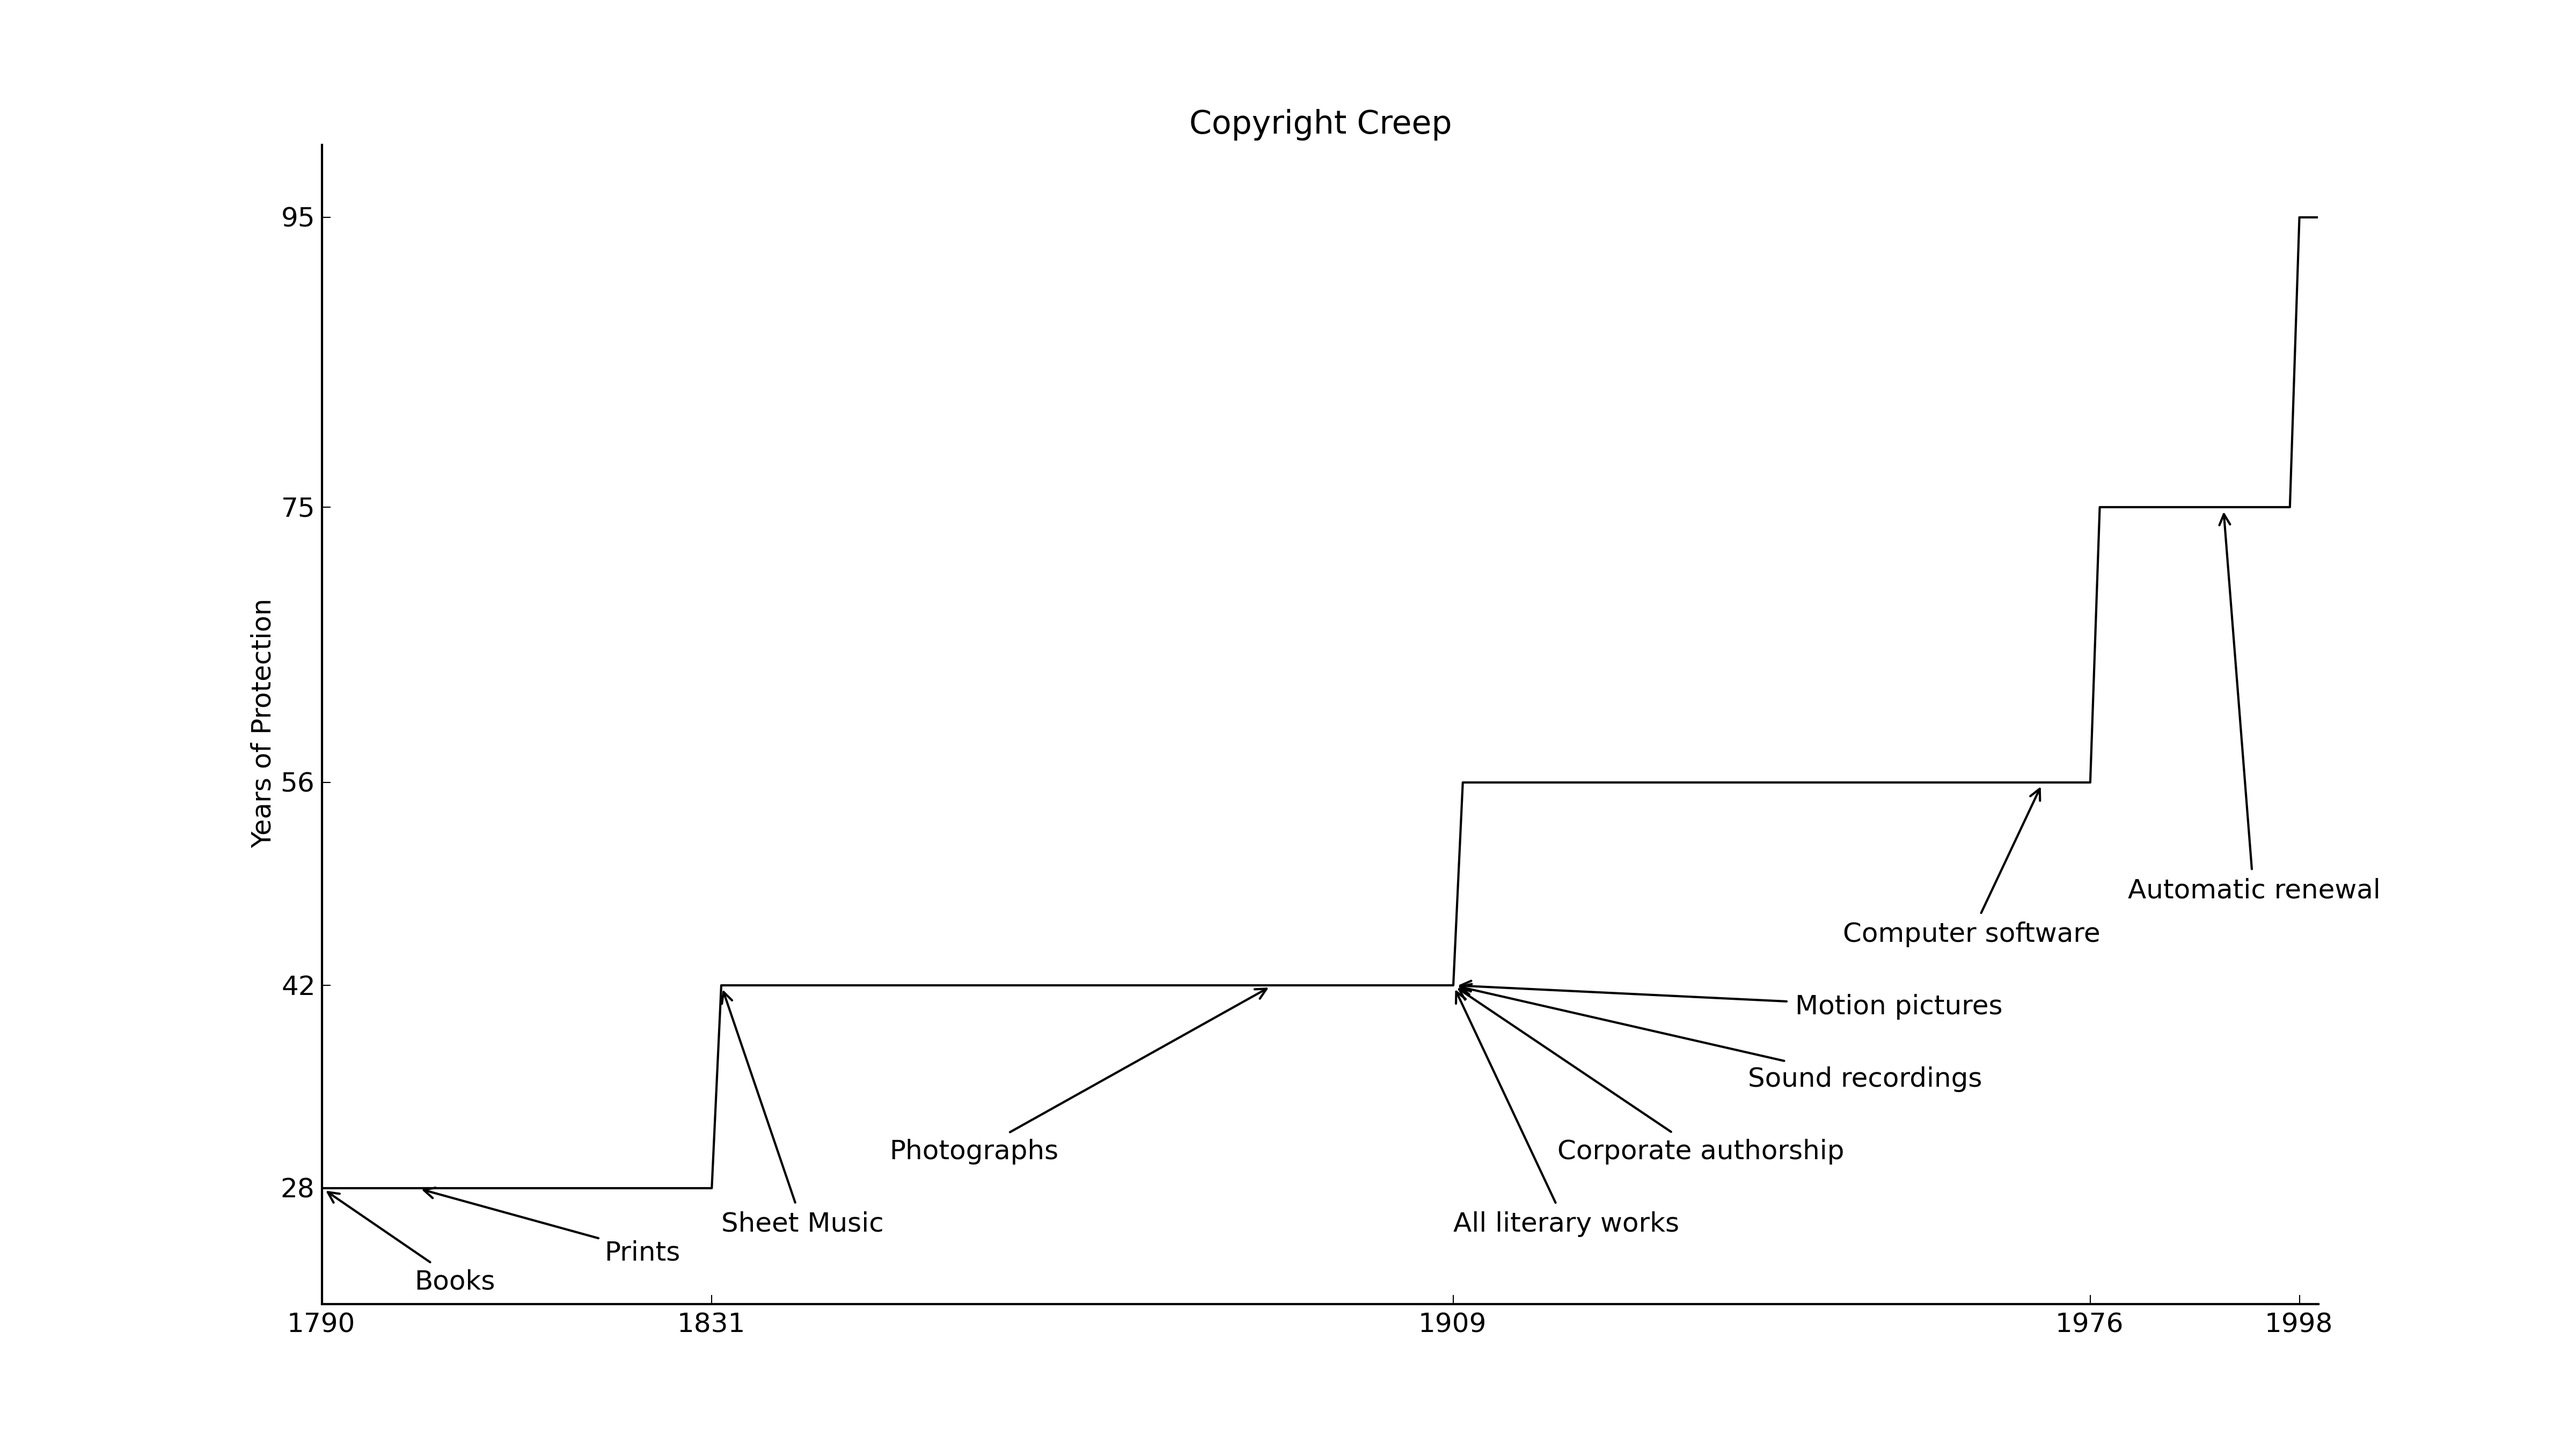
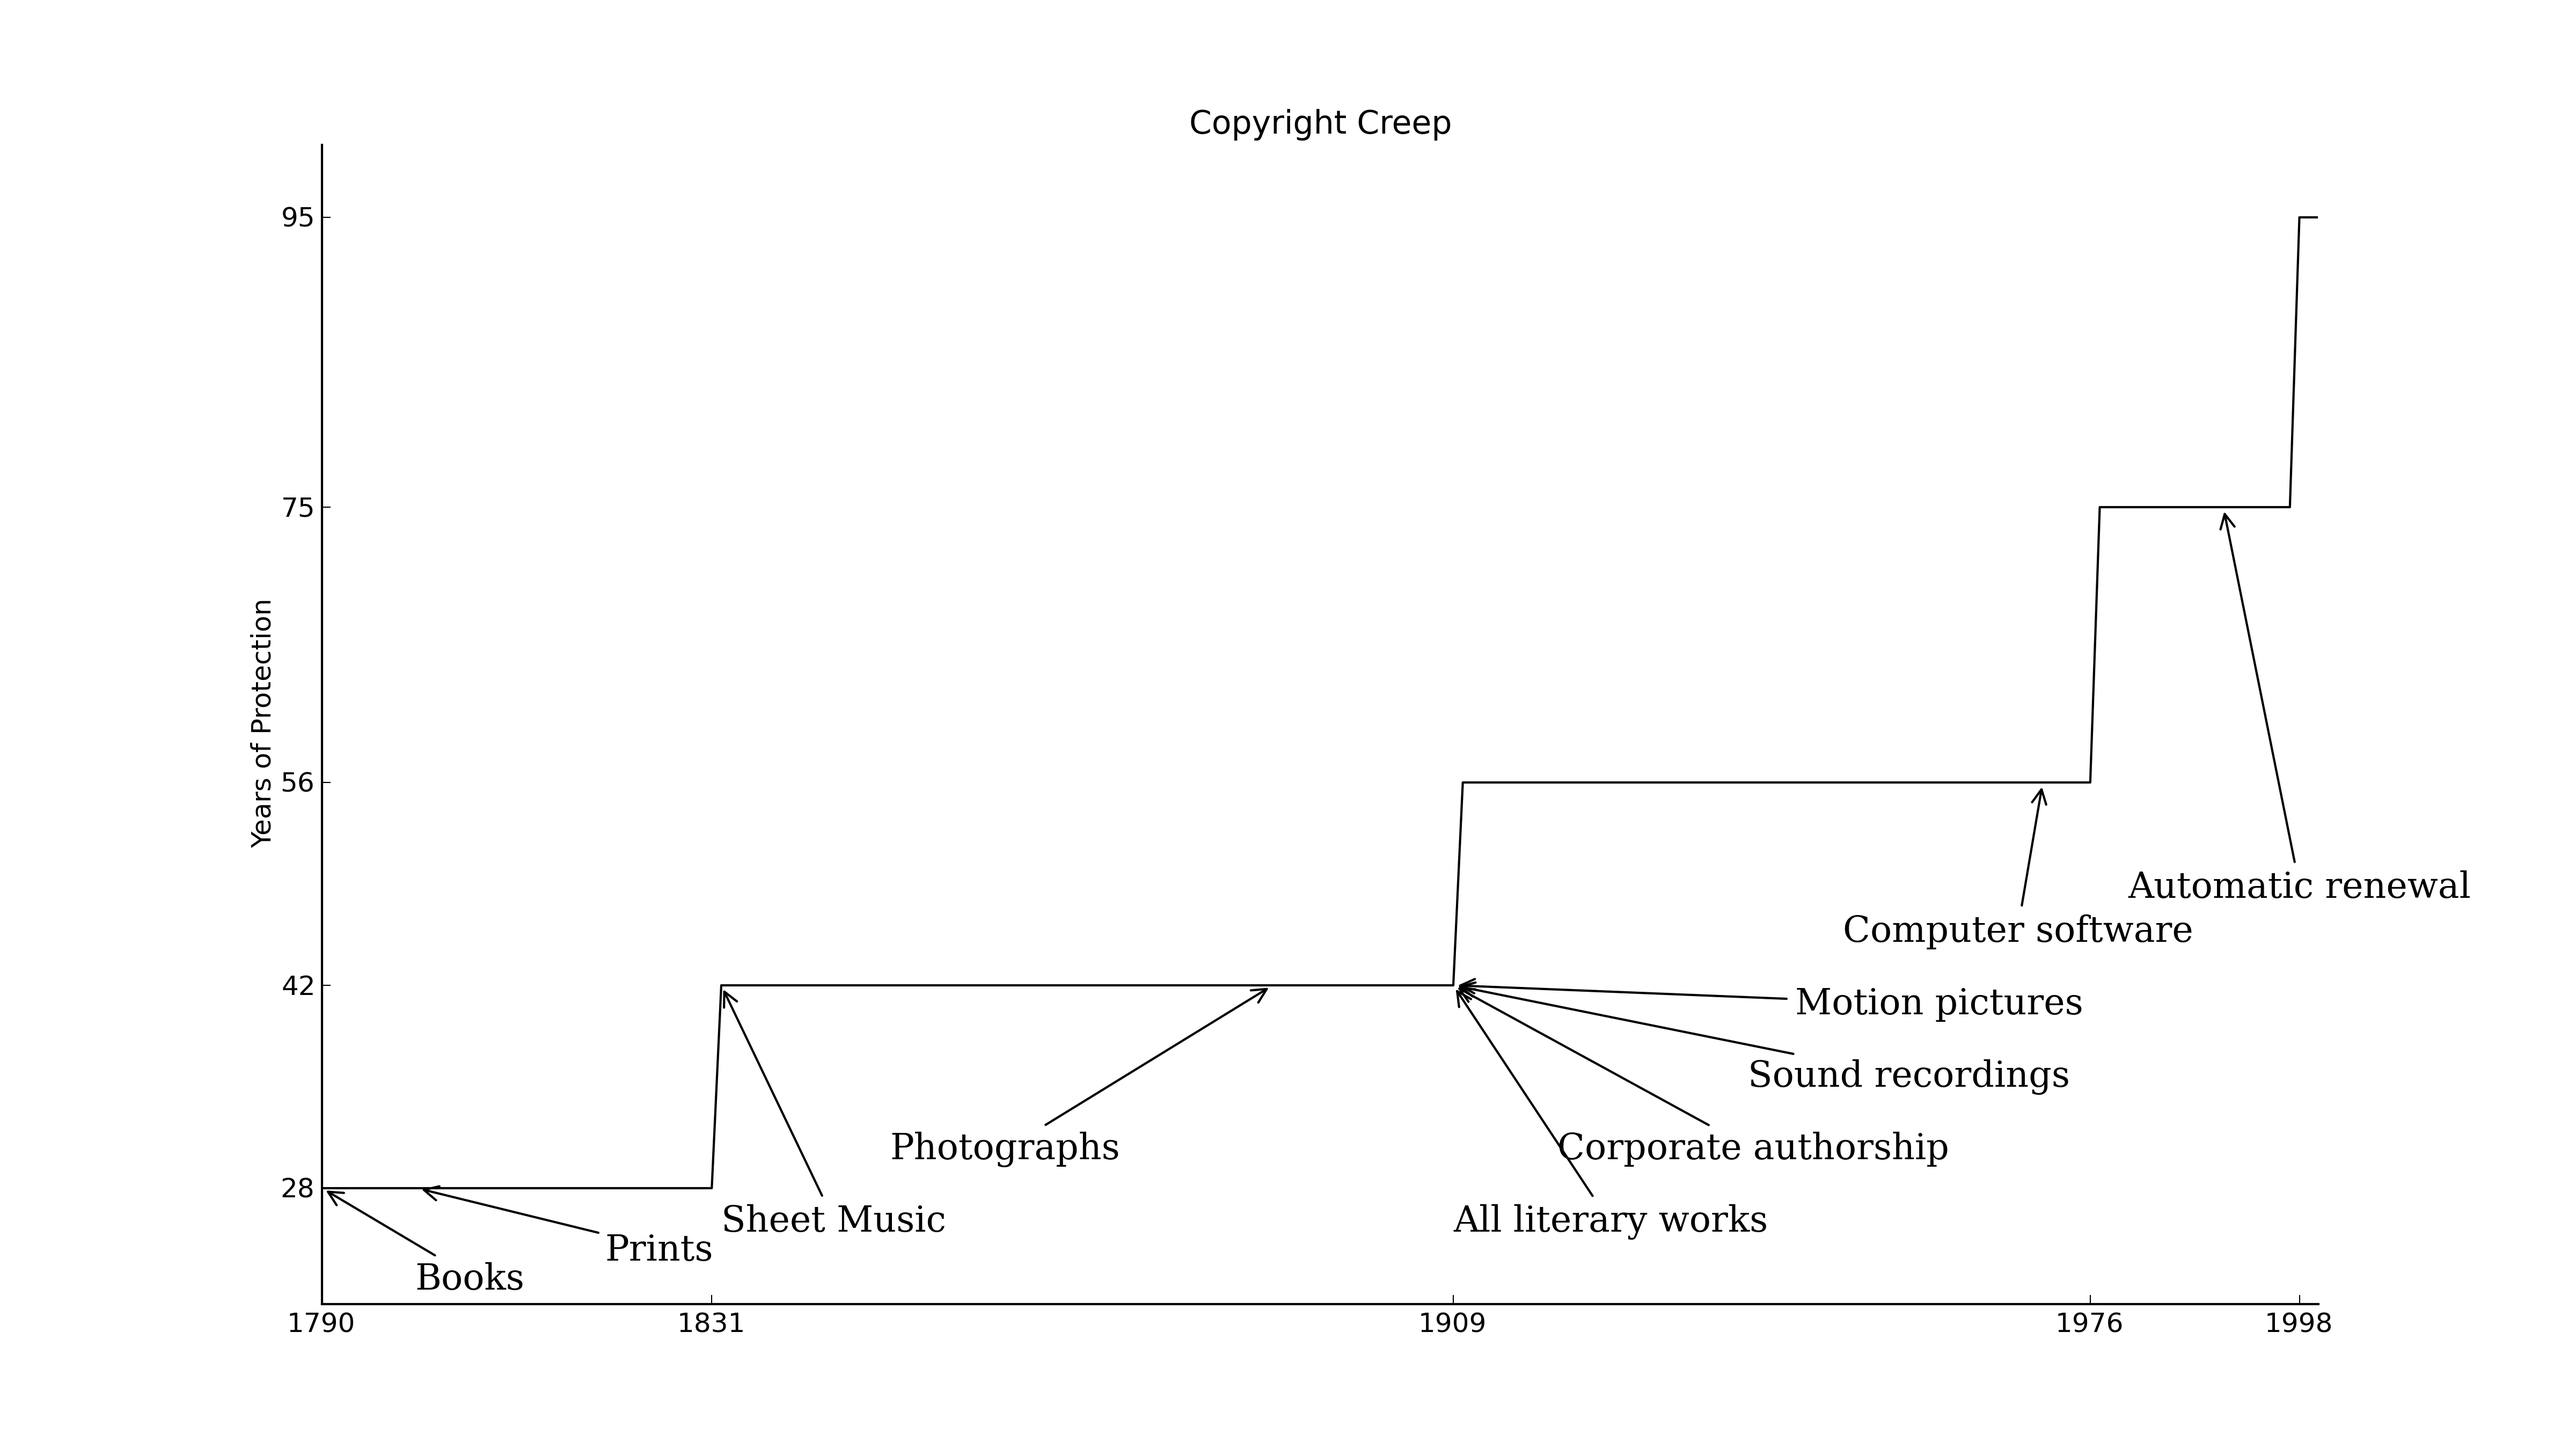
Messed up last commit

diff --git a/scripts/copyright_creep.py b/scripts/copyright_creep.py
@@ -23,43 +23,43 @@ ax.set_yticks([28, 42, 56, 75, 95])
 
 ax.annotate('Books', xy=(1790, 28), xycoords='data',
             xytext=(1800, 21), textcoords='data',
-            arrowprops=dict(arrowstyle="->"), size=16, fantasy='serif')
+            arrowprops=dict(arrowstyle="->"), size=16, family='serif')
 
 ax.annotate('Prints', xy=(1800, 28), xycoords='data',
             xytext=(1820, 23), textcoords='data',
-            arrowprops=dict(arrowstyle="->"), size=16, fantasy='serif')
+            arrowprops=dict(arrowstyle="->"), size=16, family='serif')
 
 ax.annotate('Sheet Music', xy=(1832, 42), xycoords='data',
             xytext=(1832, 25), textcoords='data',
-            arrowprops=dict(arrowstyle="->"), size=16, fantasy='serif')
+            arrowprops=dict(arrowstyle="->"), size=16, family='serif')
 
 ax.annotate('Photographs', xy=(1890, 42), xycoords='data',
             xytext=(1850, 30), textcoords='data',
-            arrowprops=dict(arrowstyle="->"), size=16, fantasy='serif')
+            arrowprops=dict(arrowstyle="->"), size=16, family='serif')
 
 ax.annotate('All literary works', xy=(1909, 42), xycoords='data',
             xytext=(1909, 25), textcoords='data',
-            arrowprops=dict(arrowstyle="->"), size=16, fantasy='serif')
+            arrowprops=dict(arrowstyle="->"), size=16, family='serif')
 
 ax.annotate('Corporate authorship', xy=(1909, 42), xycoords='data',
             xytext=(1920, 30), textcoords='data',
-            arrowprops=dict(arrowstyle="->"), size=16, fantasy='serif')
+            arrowprops=dict(arrowstyle="->"), size=16, family='serif')
 
 ax.annotate('Sound recordings', xy=(1909, 42), xycoords='data',
             xytext=(1940, 35), textcoords='data',
-            arrowprops=dict(arrowstyle="->"), size=16, fantasy='serif')
+            arrowprops=dict(arrowstyle="->"), size=16, family='serif')
 
 ax.annotate('Motion pictures', xy=(1909, 42), xycoords='data',
             xytext=(1945, 40), textcoords='data',
-            arrowprops=dict(arrowstyle="->"), size=16, fantasy='serif')
+            arrowprops=dict(arrowstyle="->"), size=16, family='serif')
 
 ax.annotate('Computer software', xy=(1971, 56), xycoords='data',
             xytext=(1950, 45), textcoords='data',
-            arrowprops=dict(arrowstyle="->"), size=16, fantasy='serif')
+            arrowprops=dict(arrowstyle="->"), size=16, family='serif')
 
 ax.annotate('Automatic renewal', xy=(1990, 75), xycoords='data',
             xytext=(1980, 48), textcoords='data',
-            arrowprops=dict(arrowstyle="->"), size=16, fantasy='serif')
+            arrowprops=dict(arrowstyle="->"), size=16, family='serif')
 
 for loc, spine in ax.spines.items():
     if loc in ['left', 'bottom']:
